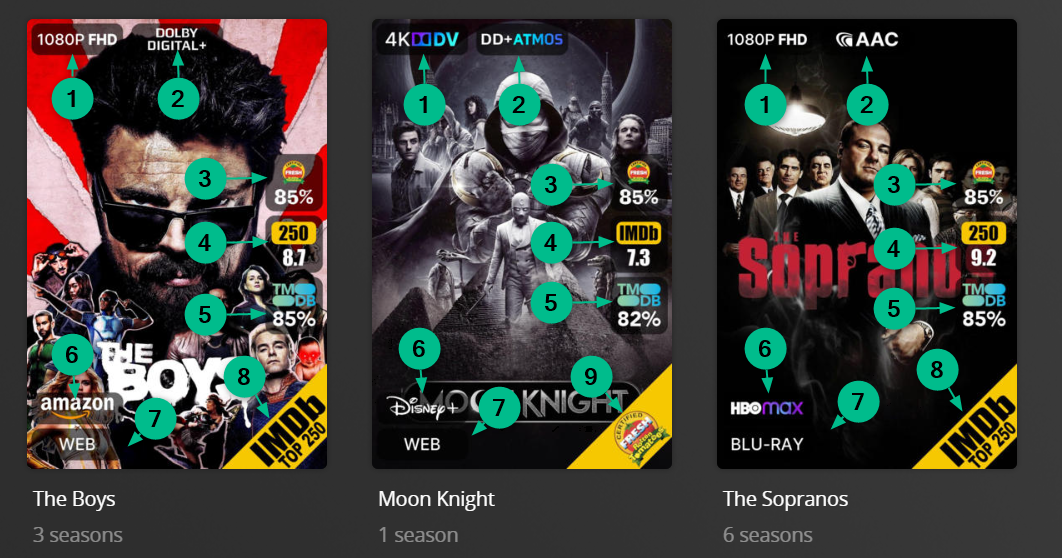
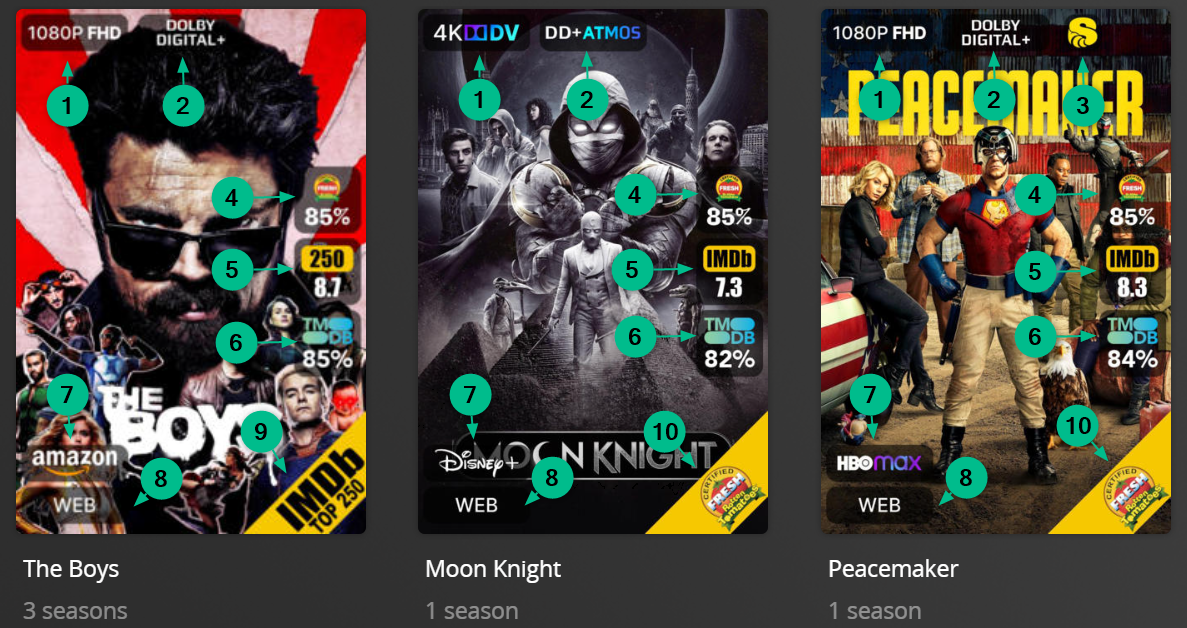
[11] updated overlay defaults

diff --git a/docs/home/guides/defaults.md b/docs/home/guides/defaults.md
@@ -45,9 +45,66 @@ libraries:
     - reapply_overlay: true
     - git: PMM/overlays/resolution                                       # 1
     - git: PMM/overlays/audio_codec                                      # 2
-    - git: PMM/overlays/special_release                                  # 3
-    - git: PMM/overlays/ratings                                          # 4,5,6
+    - git: PMM/overlays/mediastinger                                     # 3
+    - git: PMM/overlays/special_release                                  # 4
+    - git: PMM/overlays/ratings                                          # 5,6,7
       template_variables:
+        rating1: user                                                    # 5 as this is user and mass_user_rating_update: mdb_tomatoes
+        rating1_image: rt_tomato                                         # 5 as this is user and mass_user_rating_update: mdb_tomatoes
+        rating1_font: config/metadata/overlays/fonts/Adlib.ttf           # 5 local font accessible to PMM
+        rating1_font_size: 63                                            # 5 adjusted font size to fit rating
+
+        rating2: critic                                                  # 6 as this is critic and mass_critic_rating_update: imdb
+        rating2_image: imdb                                              # 6 as this is critic and mass_critic_rating_update: imdb
+        rating2_font: config/metadata/overlays/fonts/Impact.ttf          # 6 local font accessible to PMM
+        rating2_font_size: 70                                            # 6 adjusted font size to fit rating
+
+        rating3: audience                                                # 7 as this is audience and mass_audience_rating_update: tmdb
+        rating3_image: tmdb                                              # 7 as this is audience and mass_audience_rating_update: tmdb
+        rating3_font: config/metadata/overlays/fonts/Avenir_95_Black.ttf # 7 local font accessible to PMM
+        rating3_font_size: 70                                            # 7 adjusted font size to fit rating
+
+        horizontal_position: right                                       # the set of ratings is on the right of the poster
+    - git: PMM/overlays/streaming                                        # 8
+    - git: PMM/overlays/video_format                                     # 9
+    - git: PMM/overlays/audio_language                                   # 10
+    - git: PMM/overlays/oscars                                           # 11
+      template_variables:                                                # Bottom right sash is used by more than one overlay so a weight for priority is applied
+        weight: 40                                                       # Weight of 40 applies if more than 1 sash is applied in bottom right
+    - git: PMM/overlays/imdb_top_250                                     # 12
+      template_variables:                                                # Bottom right sash is used by more than one overlay so a weight for priority is applied
+        weight: 30                                                       # Weight of 30 applies if more than 1 sash is applied in bottom right
+    - git: PMM/overlays/rt_cert_fresh                                    # 13
+      template_variables:                                                # Bottom right sash is used by more than one overlay so a weight for priority is applied
+        weight: 20                                                       # Weight of 20 applies if more than 1 sash is applied in bottom right
+    - git: PMM/overlays/mc_must_see                                      # NOT SHOWN, however would apply the "MetaCritic Must See" sash in the bottom right
+      template_variables:                                                # Bottom right sash is used by more than one overlay so a weight for priority is applied
+        weight: 10                                                       # Weight of 10 applies if more than 1 sash is applied in bottom right
+
+    operations:
+      mass_user_rating_update: mdb_tomatoes                              # 5 This operation will update the user rating in plex with Rotten Tomatoes ratings information
+      mass_critic_rating_update: imdb                                    # 6 This operation will update the critic rating in plex with IMDb ratings information
+      mass_audience_rating_update: tmdb                                  # 7 This operation will update the audience rating in plex with TMDb ratings information
+```
+</details>
+
+### Example TV Shows - Show Overlays
+
+![](tvshow-poster-annotated.png)
+<details>
+  <summary>Click to expand sample config.yml TV Shows overlays section for the Show Poster:</summary>
+
+```yaml
+libraries:
+  TV Shows:
+    overlay_path:
+    - remove_overlays: false
+    - reapply_overlay: true
+    - git: PMM/overlays/resolution                                       # 1
+    - git: PMM/overlays/audio_codec                                      # 2
+    - git: PMM/overlays/mediastinger                                     # 3
+    - git: PMM/overlays/ratings                                          # 4,5,6
+      template_variables:           
         rating1: user                                                    # 4 as this is user and mass_user_rating_update: mdb_tomatoes
         rating1_image: rt_tomato                                         # 4 as this is user and mass_user_rating_update: mdb_tomatoes
         rating1_font: config/metadata/overlays/fonts/Adlib.ttf           # 4 local font accessible to PMM
@@ -66,14 +123,10 @@ libraries:
         horizontal_position: right                                       # the set of ratings is on the right of the poster
     - git: PMM/overlays/streaming                                        # 7
     - git: PMM/overlays/video_format                                     # 8
-    - git: PMM/overlays/audio_language                                   # 9
-    - git: PMM/overlays/oscars                                           # 10
-      template_variables:                                                # Bottom right sash is used by more than one overlay so a weight for priority is applied
-        weight: 40                                                       # Weight of 40 applies if more than 1 sash is applied in bottom right
-    - git: PMM/overlays/imdb_top_250                                     # 11
+    - git: PMM/overlays/imdb_top_250                                     # 9
       template_variables:                                                # Bottom right sash is used by more than one overlay so a weight for priority is applied
         weight: 30                                                       # Weight of 30 applies if more than 1 sash is applied in bottom right
-    - git: PMM/overlays/rt_cert_fresh                                    # 12
+    - git: PMM/overlays/rt_cert_fresh                                    # 10
       template_variables:                                                # Bottom right sash is used by more than one overlay so a weight for priority is applied
         weight: 20                                                       # Weight of 20 applies if more than 1 sash is applied in bottom right
     - git: PMM/overlays/mc_must_see                                      # NOT SHOWN, however would apply the "MetaCritic Must See" sash in the bottom right
@@ -84,57 +137,6 @@ libraries:
       mass_user_rating_update: mdb_tomatoes                              # 4 This operation will update the user rating in plex with Rotten Tomatoes ratings information
       mass_critic_rating_update: imdb                                    # 5 This operation will update the critic rating in plex with IMDb ratings information
       mass_audience_rating_update: tmdb                                  # 6 This operation will update the audience rating in plex with TMDb ratings information
-```
-</details>
-
-### Example TV Shows - Show Overlays
-
-![](tvshow-poster-annotated.png)
-<details>
-  <summary>Click to expand sample config.yml TV Shows overlays section for the Show Poster:</summary>
-
-```yaml
-libraries:
-  TV Shows:
-    overlay_path:
-    - remove_overlays: false
-    - reapply_overlay: true
-    - git: PMM/overlays/resolution                                       # 1
-    - git: PMM/overlays/audio_codec                                      # 2
-    - git: PMM/overlays/ratings                                          # 3,4,5
-      template_variables:           
-        rating1: user                                                    # 3 as this is user and mass_user_rating_update: mdb_tomatoes
-        rating1_image: rt_tomato                                         # 3 as this is user and mass_user_rating_update: mdb_tomatoes
-        rating1_font: config/metadata/overlays/fonts/Adlib.ttf           # 3 local font accessible to PMM
-        rating1_font_size: 63                                            # 3 adjusted font size to fit rating
-
-        rating2: critic                                                  # 4 as this is critic and mass_critic_rating_update: imdb
-        rating2_image: imdb                                              # 4 as this is critic and mass_critic_rating_update: imdb
-        rating2_font: config/metadata/overlays/fonts/Impact.ttf          # 4 local font accessible to PMM
-        rating2_font_size: 70                                            # 4 adjusted font size to fit rating
-
-        rating3: audience                                                # 5 as this is audience and mass_audience_rating_update: tmdb
-        rating3_image: tmdb                                              # 5 as this is audience and mass_audience_rating_update: tmdb
-        rating3_font: config/metadata/overlays/fonts/Avenir_95_Black.ttf # 5 local font accessible to PMM
-        rating3_font_size: 70                                            # 5 adjusted font size to fit rating
-
-        horizontal_position: right                                       # the set of ratings is on the right of the poster
-    - git: PMM/overlays/streaming                                        # 6
-    - git: PMM/overlays/video_format                                     # 7
-    - git: PMM/overlays/imdb_top_250                                     # 8
-      template_variables:                                                # Bottom right sash is used by more than one overlay so a weight for priority is applied
-        weight: 30                                                       # Weight of 30 applies if more than 1 sash is applied in bottom right
-    - git: PMM/overlays/rt_cert_fresh                                    # 9
-      template_variables:                                                # Bottom right sash is used by more than one overlay so a weight for priority is applied
-        weight: 20                                                       # Weight of 20 applies if more than 1 sash is applied in bottom right
-    - git: PMM/overlays/mc_must_see                                      # NOT SHOWN, however would apply the "MetaCritic Must See" sash in the bottom right
-      template_variables:                                                # Bottom right sash is used by more than one overlay so a weight for priority is applied
-        weight: 10                                                       # Weight of 10 applies if more than 1 sash is applied in bottom right
-
-    operations:
-      mass_user_rating_update: mdb_tomatoes                              # 3 This operation will update the user rating in plex with Rotten Tomatoes ratings information
-      mass_critic_rating_update: imdb                                    # 4 This operation will update the critic rating in plex with IMDb ratings information
-      mass_audience_rating_update: tmdb                                  # 5 This operation will update the audience rating in plex with TMDb ratings information
 ```
 </details>
 
@@ -362,6 +364,31 @@ libraries:
         collection_section: 11
 ```
 
+Or maybe you want to disable separators globally per library.
+
+```yaml
+libraries:
+  LIBRARYNAME:
+    template_variables:
+      use_separator: false
+    metadata_path:
+```
+
+Alternatively it can be turned off individually per git file:
+
+```yaml
+libraries:
+  LIBRARYNAME:
+    metadata_path:
+      - git: PMM/<file1>    # separator is disabled
+        template_varables:
+          use_separator: false
+      - git: PMM/<file2>    # separator is enabled by default
+      - git: PMM/<file3>    # separator is disabled
+        template_varables:
+          use_separator: false
+```
+
 ## Errors
 
 If there are collections being made that have configuration errors or missing posters please either bring it up in our Discord or raise an Issue on the [Configs Repo](https://github.com/meisnate12/Plex-Meta-Manager-Configs/issues/new/choose). 
@@ -413,6 +440,7 @@ libraries:
     - git: PMM/overlays/audio_codec
     - git: PMM/overlays/audio_language
     - git: PMM/overlays/direct_play
+    - git: PMM/overlays/mediastinger
     - git: PMM/overlays/imdb_top_250
     - git: PMM/overlays/mc_must_see
     - git: PMM/overlays/rt_cert_fresh
@@ -475,6 +503,13 @@ libraries:
     - git: PMM/overlays/episode_info
       template_variables:
         overlay_level: episode
+    - git: PMM/overlays/mediastinger
+    - git: PMM/overlays/mediastinger
+      template_variables:
+        overlay_level: episode
+    - git: PMM/overlays/mediastinger
+      template_variables:
+        overlay_level: season
     - git: PMM/overlays/imdb_top_250
     - git: PMM/overlays/imdb_top_250
       template_variables:
